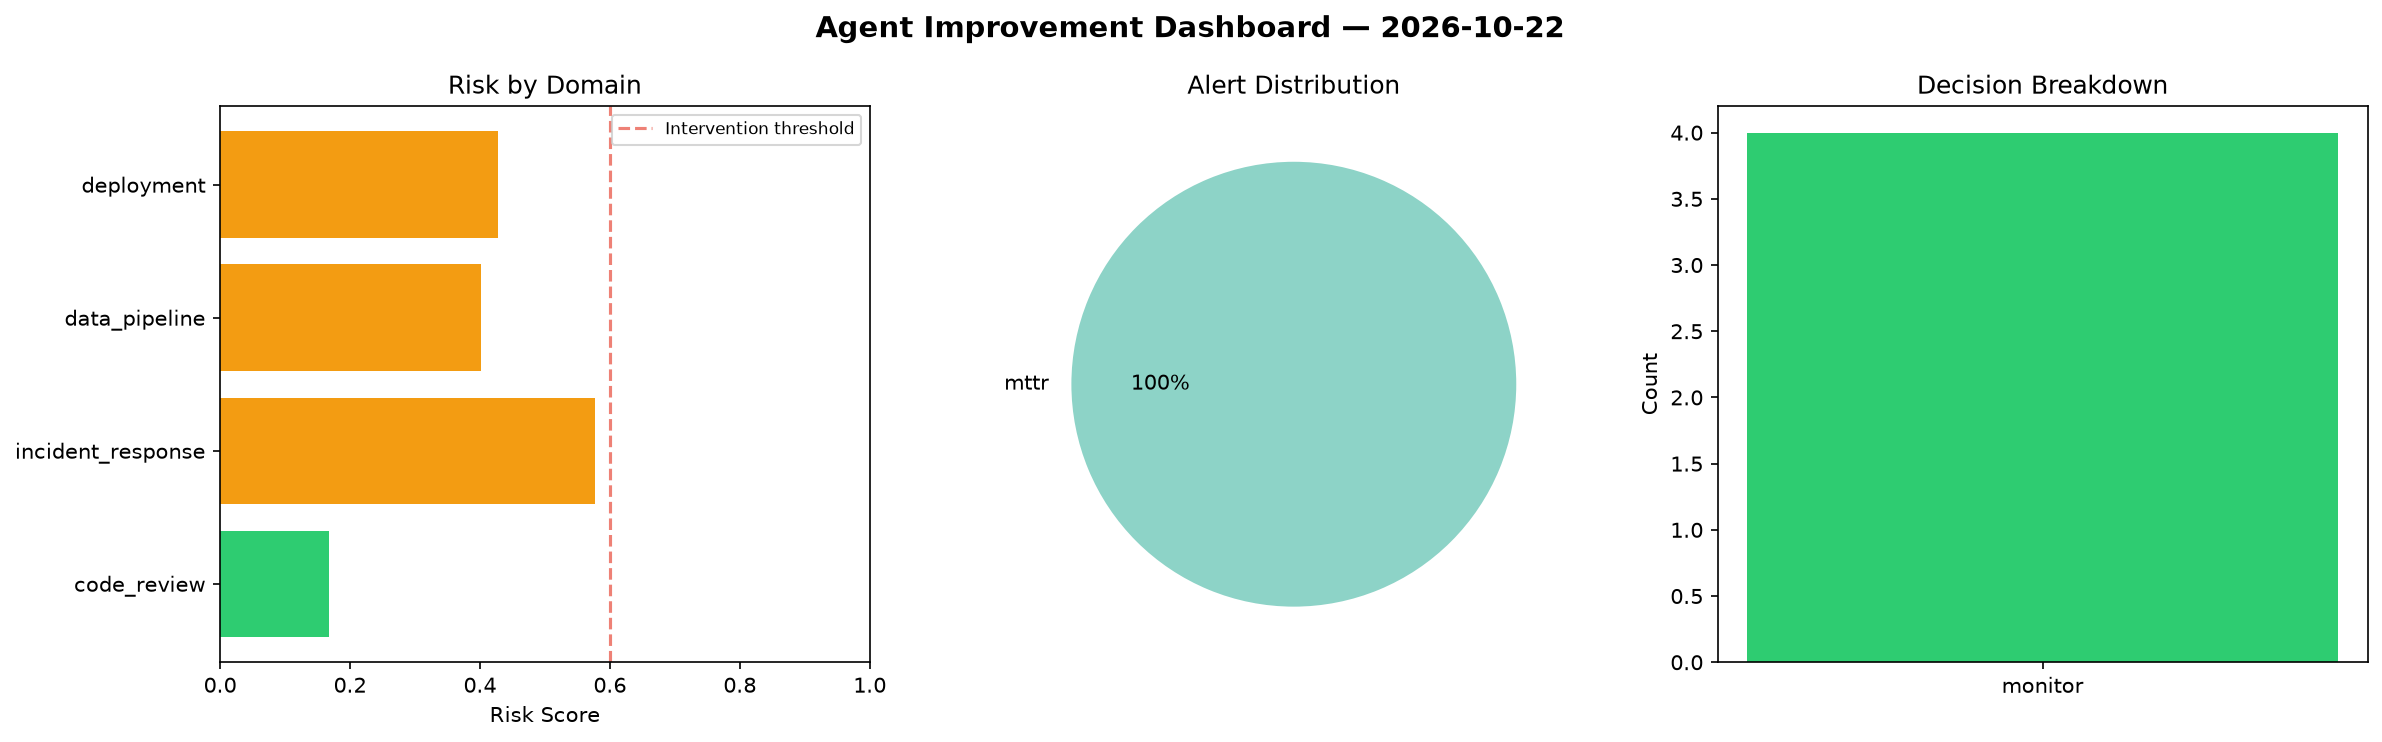
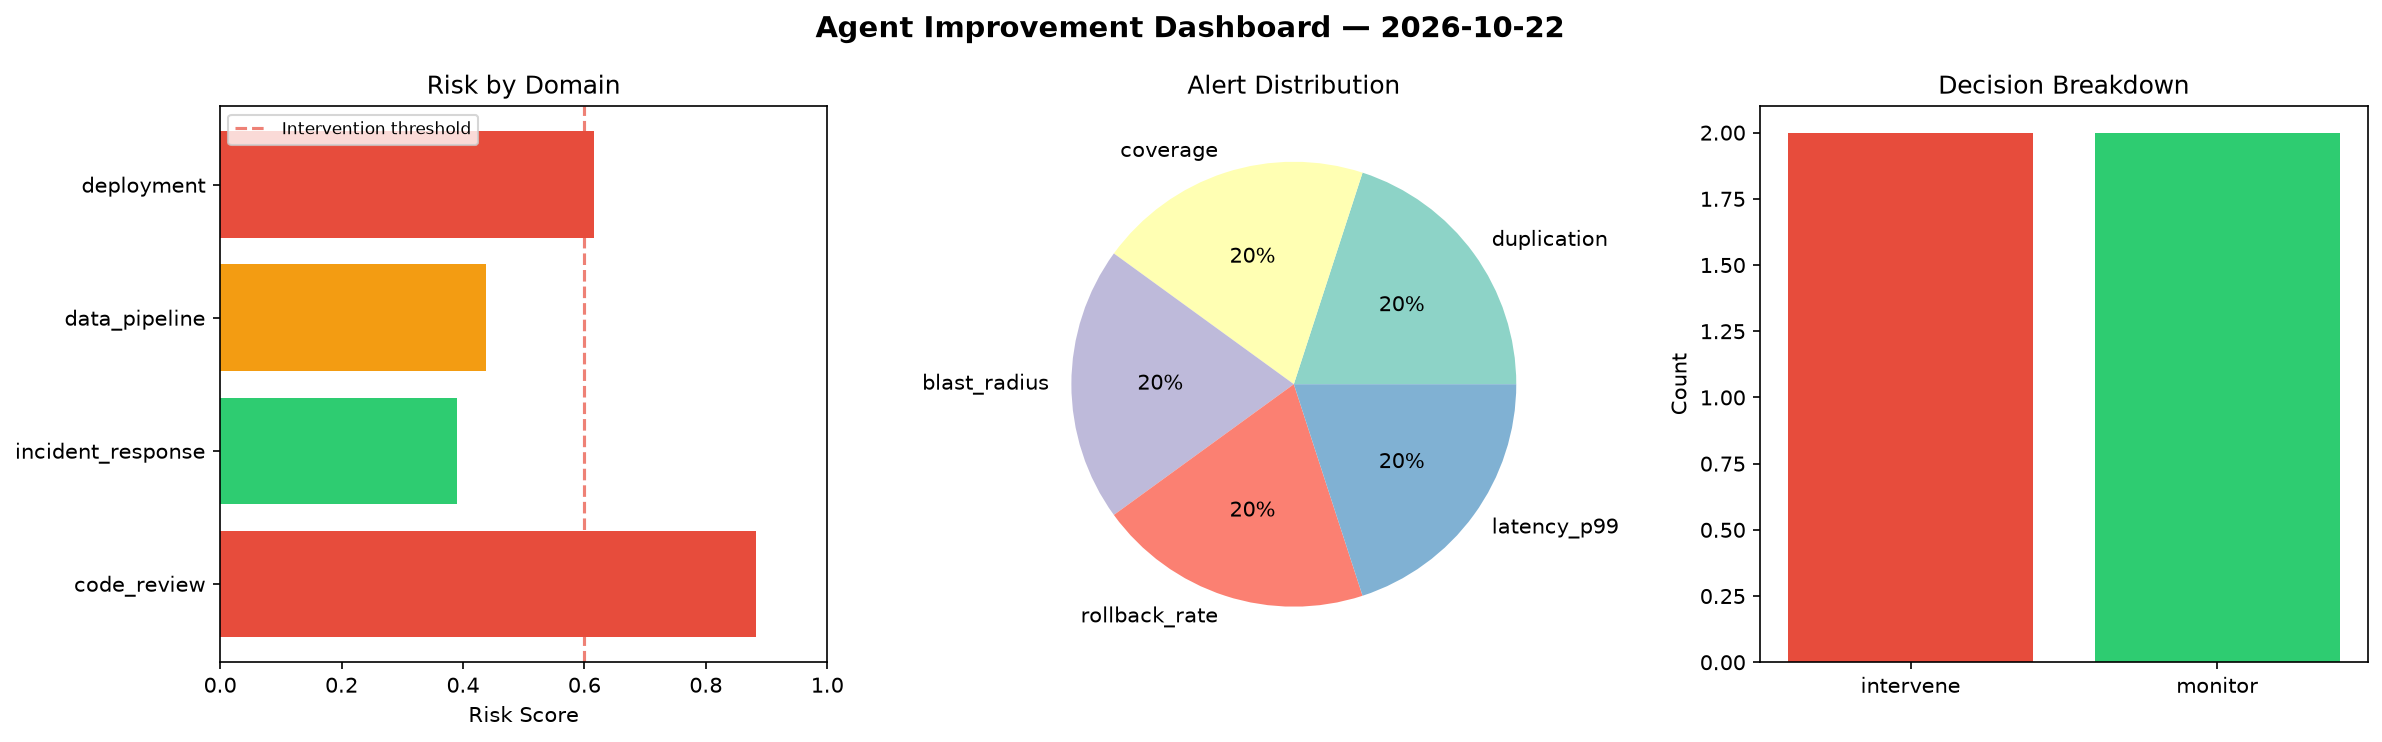
agent-improvement: daily cycle 2026-10-22T13:47

diff --git a/logs/2026-10-22.md b/logs/2026-10-22.md
@@ -1,6 +1,6 @@
 # Agent Improvement Report — 2026-10-22
 
-**Cycle ID:** `7953a844` | **Avg Risk:** 0.3933 | **Interventions:** 0/4
+**Cycle ID:** `ad194bba` | **Avg Risk:** 0.5815 | **Interventions:** 2/4
 
 ![Dashboard](2026-10-22_dashboard.png)
 
@@ -10,18 +10,18 @@
 
 | Domain | Risk Score | Decision | Alerts |
 |--------|-----------|----------|--------|
-| code_review | 0.1672 | monitor | none |
-| incident_response | 0.5768 | monitor | mttr |
-| data_pipeline | 0.4019 | monitor | none |
-| deployment | 0.4272 | monitor | none |
+| code_review | 0.8828 | intervene | duplication, coverage |
+| incident_response | 0.3896 | monitor | blast_radius |
+| data_pipeline | 0.4377 | monitor | none |
+| deployment | 0.6158 | intervene | rollback_rate, latency_p99 |
 
 ## Delta vs Yesterday
 
 | Domain | Today | Yesterday | Change |
 |--------|-------|-----------|--------|
-| code_review | 0.1672 | 0.4495 | 📉 -62.8% |
-| incident_response | 0.5768 | 0.5758 | 📈 0.2% |
-| data_pipeline | 0.4019 | 0.7339 | 📉 -45.2% |
-| deployment | 0.4272 | 0.5448 | 📉 -21.6% |
+| code_review | 0.8828 | 0.4495 | 📈 96.4% |
+| incident_response | 0.3896 | 0.5758 | 📉 -32.3% |
+| data_pipeline | 0.4377 | 0.7339 | 📉 -40.4% |
+| deployment | 0.6158 | 0.5448 | 📈 13.0% |
 
-**Refinement:** `{'adjustment': 'tighten_thresholds', 'trend': 'degrading', 'window': 4}`
+**Refinement:** `{'adjustment': 'maintain', 'trend': 'improving', 'window': 4}`
